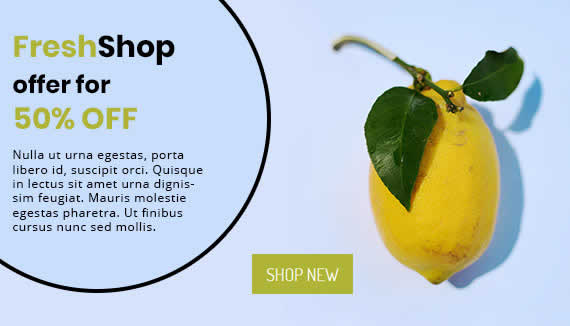
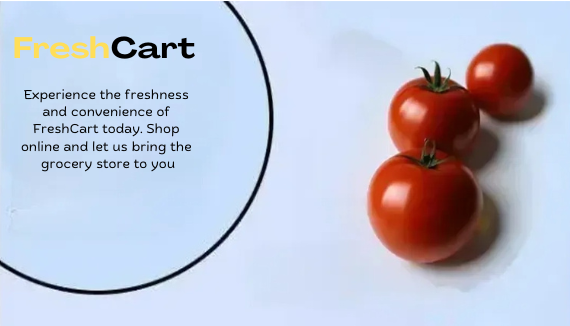
About us and Home page modified

diff --git a/freshcart_app/templates/footer.html b/freshcart_app/templates/footer.html
@@ -1,61 +1,23 @@
-
 {%load static%}
- <!-- Start Footer  -->
- <footer>
+<!-- Start Footer  -->
+<footer>
     <div class="footer-main">
         <div class="container">
-            <div class="row">
-                <div class="col-lg-4 col-md-12 col-sm-12">
-                    <div class="footer-top-box">
-                        <h3>Business Time</h3>
-                        <ul class="list-time">
-                            <li>Monday - Friday: 08.00am to 05.00pm</li>
-                            <li>Saturday: 10.00am to 08.00pm</li>
-                            <li>Sunday: <span>Closed</span></li>
-                        </ul>
-                    </div>
-                </div>
-                <div class="col-lg-4 col-md-12 col-sm-12">
-                    <div class="footer-top-box">
-                        <h3>Newsletter</h3>
-                        <form class="newsletter-box">
-                            <div class="form-group">
-                                <input class="" type="email" name="Email" placeholder="Email Address*" />
-                                <i class="fa fa-envelope"></i>
-                            </div>
-                            <button class="btn hvr-hover" type="submit">Submit</button>
-                        </form>
-                    </div>
-                </div>
-                <div class="col-lg-4 col-md-12 col-sm-12">
-                    <div class="footer-top-box">
-                        <h3>Social Media</h3>
-                        <p>Lorem ipsum dolor sit amet, consectetur adipiscing elit.</p>
-                        <ul>
-                            <li><a href="#"><i class="fab fa-facebook" aria-hidden="true"></i></a></li>
-                            <li><a href="#"><i class="fab fa-twitter" aria-hidden="true"></i></a></li>
-                            <li><a href="#"><i class="fab fa-linkedin" aria-hidden="true"></i></a></li>
-                            <li><a href="#"><i class="fab fa-google-plus" aria-hidden="true"></i></a></li>
-                            <li><a href="#"><i class="fa fa-rss" aria-hidden="true"></i></a></li>
-                            <li><a href="#"><i class="fab fa-pinterest-p" aria-hidden="true"></i></a></li>
-                            <li><a href="#"><i class="fab fa-whatsapp" aria-hidden="true"></i></a></li>
-                        </ul>
-                    </div>
-                </div>
-            </div>
+           
             <hr>
             <div class="row">
                 <div class="col-lg-4 col-md-12 col-sm-12">
                     <div class="footer-widget">
-                        <h4>About Freshshop</h4>
-                        <p>Lorem ipsum dolor sit amet, consectetur adipiscing elit, sed do eiusmod tempor incididunt
-                            ut
-                            labore et dolore magna aliqua. Ut enim ad minim veniam, quis nostrud exercitation
-                            ullamco
-                            laboris nisi ut aliquip ex ea commodo consequat.</p>
-                        <p>Lorem ipsum dolor sit amet, consectetur adipiscing elit, sed do eiusmod tempor incididunt
-                            ut
-                            labore et dolore magna aliqua. </p>
+                        <h4>About FreshCart</h4>
+                        <p>
+                        <p class="freshcart-about">FreshCart is your one-stop shop for fresh, high-quality groceries
+                            delivered right to your doorstep.</p>
+                        <p> We are committed to providing you with a convenient and hassle-free online shopping
+                            experience.Our
+                            wide range of products includes fresh vegetables, juicy fruits, and dairy essentials. We
+                            source our
+                            produce directly from local farmers, ensuring freshness and taste.
+                        </p>
                     </div>
                 </div>
                 <div class="col-lg-4 col-md-12 col-sm-12">
@@ -67,7 +29,6 @@
                             <li><a href="#">Our Sitemap</a></li>
                             <li><a href="#">Terms &amp; Conditions</a></li>
                             <li><a href="#">Privacy Policy</a></li>
-                            <li><a href="#">Delivery Information</a></li>
                         </ul>
                     </div>
                 </div>
@@ -75,18 +36,13 @@
                     <div class="footer-link-contact">
                         <h4>Contact Us</h4>
                         <ul>
+                           
                             <li>
-                                <p><i class="fas fa-map-marker-alt"></i>Address: Michael I. Days 3756 <br>Preston
-                                    Street
-                                    Wichita,<br> KS 67213 </p>
-                            </li>
-                            <li>
-                                <p><i class="fas fa-phone-square"></i>Phone: <a href="tel:+1-888705770">+1-888 705
-                                        770</a></p>
+                                <p><i class="fas fa-phone-square"></i>Phone: <a href="tel:+9188******44">+9188******44</a></p>
                             </li>
                             <li>
                                 <p><i class="fas fa-envelope"></i>Email: <a
-                                        href="mailto:contactinfo@gmail.com">contactinfo@gmail.com</a></p>
+                                        href="mailto:zaidkhuroo@gmail.com">zaidkhuroo@gmail.com</a></p>
                             </li>
                         </ul>
                     </div>
@@ -99,8 +55,8 @@
 
 <!-- Start copyright  -->
 <div class="footer-copyright">
-    <p class="footer-company">All Rights Reserved. &copy; 2018 <a href="#">ThewayShop</a> Design By :
-        <a href="https://html.design/">html design</a>
+    <p class="footer-company">All Rights Reserved. &copy; 2024 <a href="{%url 'home'%}">FreshCart</a> Design By :
+        <a href="https://myportfolio-2-wlgl.onrender.com/">Zaid Khuroo</a>
     </p>
 </div>
 <!-- End copyright  -->

diff --git a/freshcart_app/templates/index.html b/freshcart_app/templates/index.html
@@ -14,10 +14,8 @@
                 <div class="row">
                     <div class="col-md-12">
                         <h1 class="m-b-20"><strong>Welcome To <br> FreshCart</strong></h1>
-                        <p class="m-b-40">See how your users experience your website in realtime or view <br> trends
-                            to
-                            see any changes in performance over time.</p>
-                        <p><a class="btn hvr-hover" href="#">Shop New</a></p>
+                        <p class="m-b-40">Welcome to FreshCart! Your one-stop shop for farm-fresh  vegetables, <br>fruits, and dairy, delivered right to your doorstep. </p>
+                       
                     </div>
                 </div>
             </div>
@@ -28,10 +26,8 @@
                 <div class="row">
                     <div class="col-md-12">
                         <h1 class="m-b-20"><strong>Welcome To <br> FreshCart</strong></h1>
-                        <p class="m-b-40">See how your users experience your website in realtime or view <br> trends
-                            to
-                            see any changes in performance over time.</p>
-                        <p><a class="btn hvr-hover" href="#">Shop New</a></p>
+                        <p class="m-b-40">Welcome to FreshCart! Your one-stop shop for farm-fresh  vegetables, <br>fruits, and dairy, delivered right to your doorstep. </p>
+                        
                     </div>
                 </div>
             </div>
@@ -42,10 +38,8 @@
                 <div class="row">
                     <div class="col-md-12">
                         <h1 class="m-b-20"><strong>Welcome To <br> FreshCart</strong></h1>
-                        <p class="m-b-40">See how your users experience your website in realtime or view <br> trends
-                            to
-                            see any changes in performance over time.</p>
-                        <p><a class="btn hvr-hover" href="#">Shop New</a></p>
+                        <p class="m-b-40">Welcome to FreshCart! Your one-stop shop for farm-fresh  vegetables, <br>fruits, and dairy, delivered right to your doorstep. </p>
+                       
                     </div>
                 </div>
             </div>

diff --git a/freshcart_app/templates/about.html b/freshcart_app/templates/about.html
@@ -28,7 +28,7 @@
             </div>
             <div class="col-lg-6">
                 <h2 class="noo-sh-title-top">We are <span>FreshCart</span></h2>
-                <p>"FreshCart is your one-stop shop for fresh, high-quality groceries delivered right to your doorstep.
+                <p class="freshcart-about">"FreshCart is your one-stop shop for fresh, high-quality groceries delivered right to your doorstep.
                     We are committed to providing you with a convenient and hassle-free online shopping experience.Our
                     wide range of products includes fresh vegetables, juicy fruits, and dairy essentials. We source our
                     produce directly from local farmers, ensuring freshness and taste. Every product is carefully
@@ -38,7 +38,7 @@
                     user-friendly website and mobile app make it easy to find what you're looking for and track your
                     order.Experience the freshness and convenience of FreshCart today. Shop online and let us bring the
                     grocery store to you!</p>
-                <a class="btn hvr-hover" href="#">Read More</a>
+                <a class="btn hvr-hover" href="{%url 'home'%}">Shop ></a>
             </div>
         </div>
         <div class="row my-5">
@@ -94,7 +94,7 @@
             </div>
 
             <div class="col-sm-6 col-lg-6">
-                <h2>Hello! I'm Zaid</h2>
+                <h2 class="hello">Hello! I'm Zaid</h2>
                 <div class="hover-team">
                     <div class="our-team">
 

diff --git a/static/css/style.css b/static/css/style.css
@@ -2068,14 +2068,20 @@ ul.cart-list>li.total>.btn:hover {
 }
 
 .team-description {
-    padding: 20px 0px;
+    padding: 10px 0px;
 }
 
 .team-description p {
-    font-size: 14px;
+    font-size: 1.2rem;
     margin: 0px;
 }
-
+.hello{
+    font-weight: bold;
+    font-size: 20px;
+}
+.freshcart-about{
+    font-size: 1.1rem;
+}
 .hover-team:hover .social {
     opacity: 1;
 }
@@ -2105,7 +2111,9 @@ ul.cart-list>li.total>.btn:hover {
 }
 
 .hover-team .team-content .title {
+    margin-top: 15px;
     border-bottom: 2px solid #b0b435;
+    font-size: 20px;
 }
 
 .shop-box-inner {
